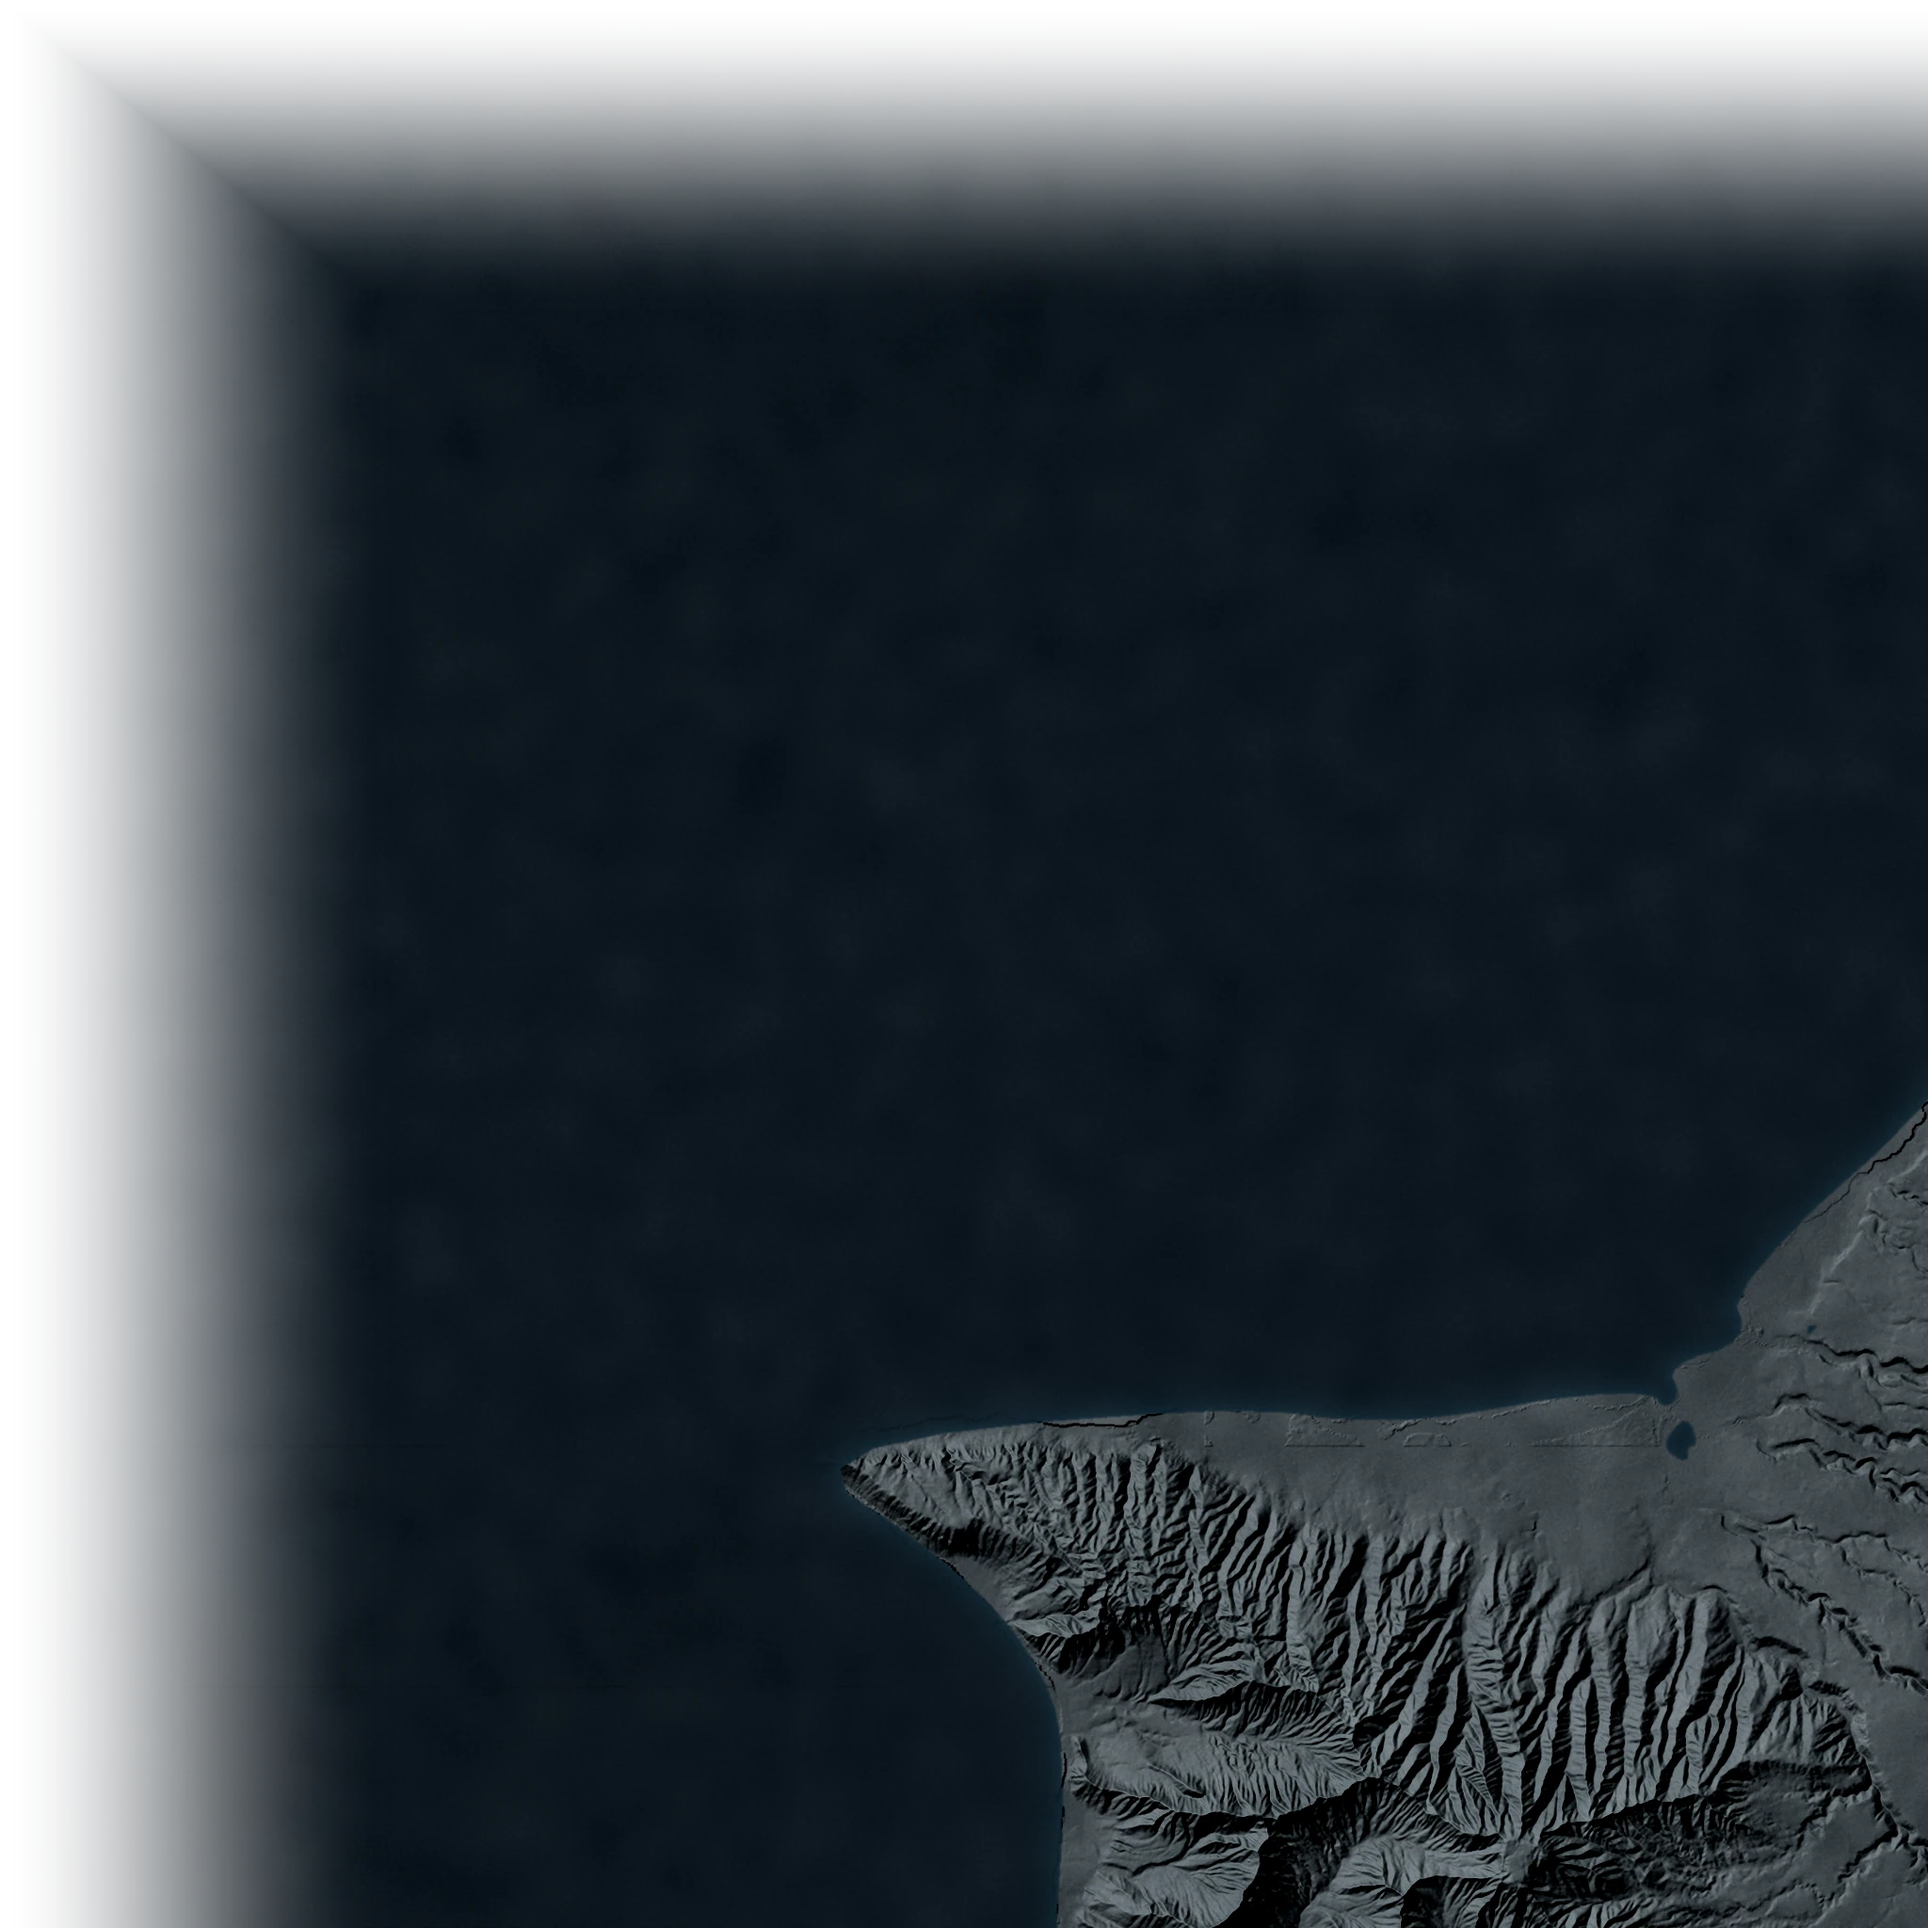
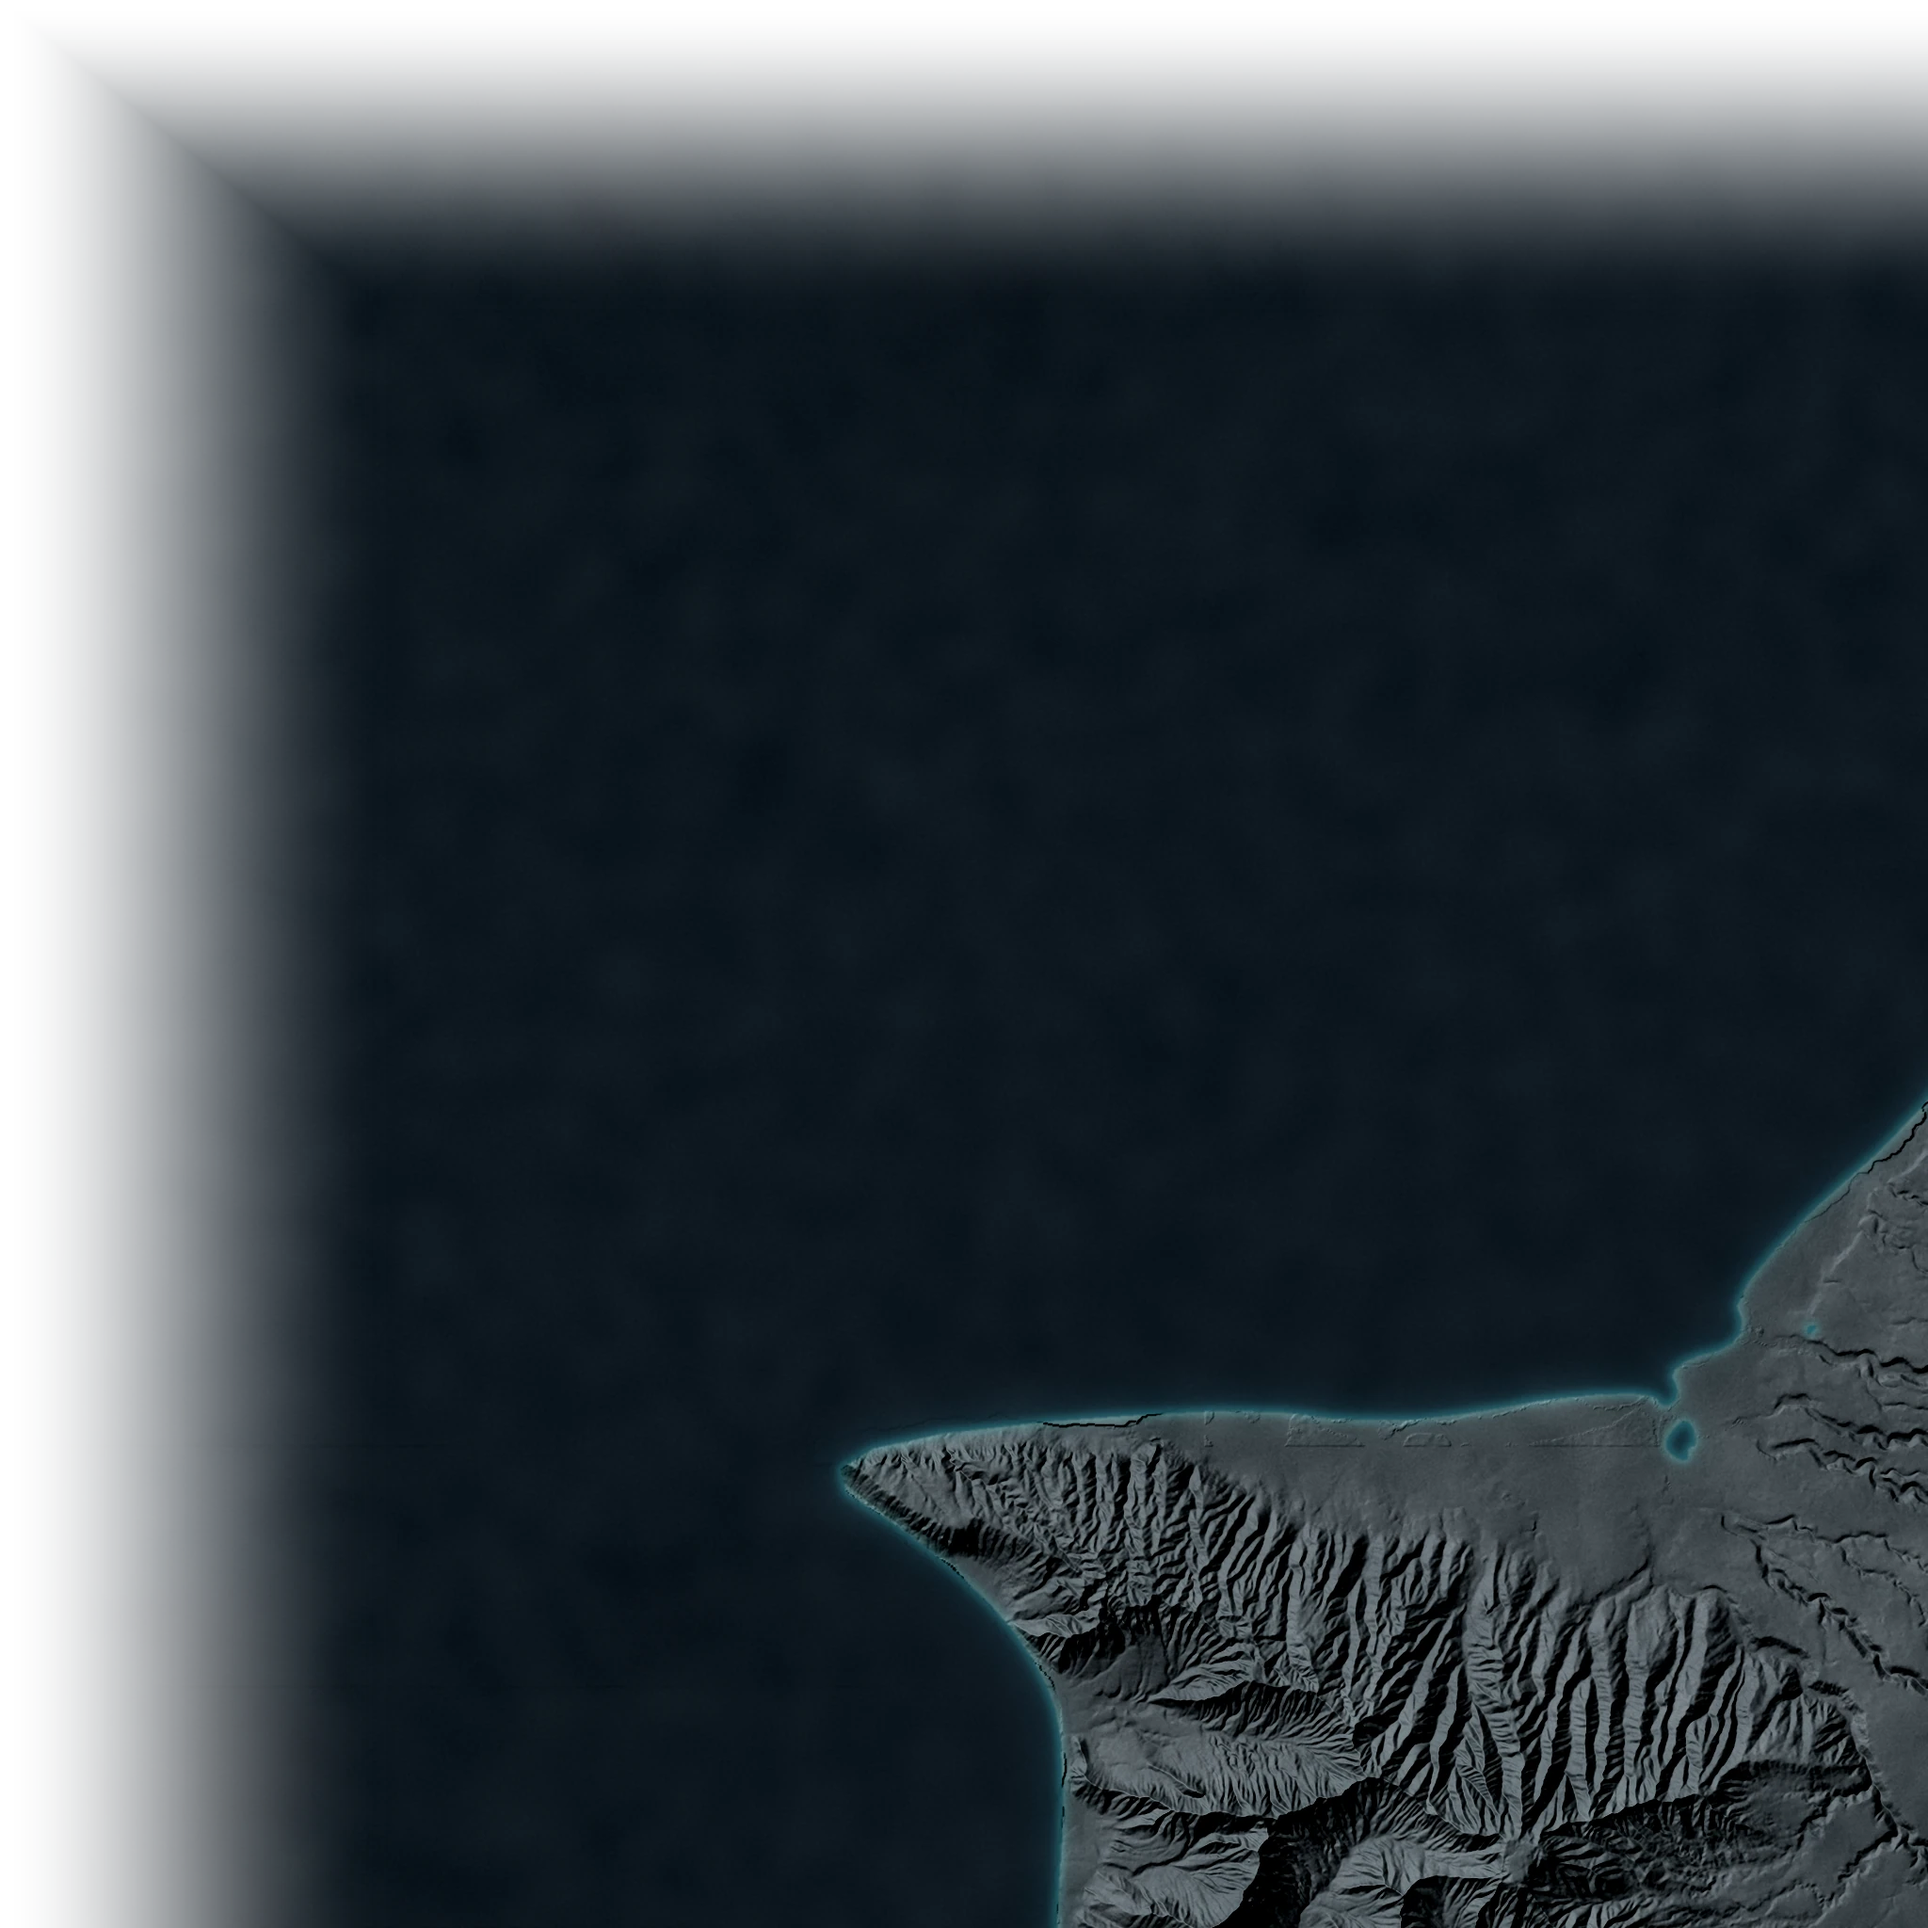
Speed up map rendering ~20x: project coasts per frame, bake coast glow into terrain tiles
Wide translucent SVG strokes inside the 3D-tilted plane cost ~2 min/frame in
software rasterisation; glow is now baked into the textures and only the crisp
1px vector line is drawn.

Claude-Session: https://claude.ai/code/session_01M2573w4XZCHk9cqGbeF5WA

diff --git a/src/map/MapStage.tsx b/src/map/MapStage.tsx
@@ -36,26 +36,55 @@ const LAYERS: {key: RegionKey; vis: (z: number) => number}[] = [
   {key: 'hawaii', vis: (z) => smooth(z, 6.2, 7.2)},
   {key: 'oahu', vis: (z) => smooth(z, 9.0, 10.0)},
 ];
+// Coast rings parsed once; each frame they are projected to plane pixels in JS,
+// culled and decimated. (Drawing huge world-unit paths under a scale transform
+// inside a 3D-tilted plane is ~25x slower in software rasterisation.)
+type Ring = {pts: Float64Array; x0: number; y0: number; x1: number; y1: number};
+const parseRings = (d: string): Ring[] =>
+  d
+    .split('M')
+    .filter(Boolean)
+    .map((r) => {
+      const nums = r.replace('Z', '').split('L').flatMap((p) => p.split(',').map(Number));
+      const pts = Float64Array.from(nums);
+      let x0 = Infinity, y0 = Infinity, x1 = -Infinity, y1 = -Infinity;
+      for (let i = 0; i < pts.length; i += 2) {
+        x0 = Math.min(x0, pts[i]); x1 = Math.max(x1, pts[i]);
+        y0 = Math.min(y0, pts[i + 1]); y1 = Math.max(y1, pts[i + 1]);
+      }
+      return {pts, x0, y0, x1, y1};
+    });
 const COASTS = [
-  {d: coastPacific.d, vis: (z: number) => 1 - smooth(z, 6.4, 7.2)},
-  {d: coastHawaii.d, vis: (z: number) => smooth(z, 6.4, 7.2) * (1 - smooth(z, 9.6, 10.2))},
-  {d: coastOahu.d, vis: (z: number) => smooth(z, 9.6, 10.2)},
+  {rings: parseRings(coastPacific.d), vis: (z: number) => 1 - smooth(z, 6.4, 7.2)},
+  {rings: parseRings(coastHawaii.d), vis: (z: number) => smooth(z, 6.4, 7.2) * (1 - smooth(z, 9.6, 10.2))},
+  {rings: parseRings(coastOahu.d), vis: (z: number) => smooth(z, 9.6, 10.2)},
 ];
 
-const graticule = (() => {
-  const parts: string[] = [];
-  for (let lon = 100; lon <= 240; lon += 5) {
-    const [x, y0] = toWorld([lon, 64]);
-    const [, y1] = toWorld([lon, -4]);
-    parts.push(`M${x},${y0}L${x},${y1}`);
+const coastPath = (rings: Ring[], cx: number, cy: number, s: number) => {
+  const hw = PLANE_W / 2 / s, hh = PLANE_H / 2 / s;
+  const vx0 = cx - hw * 1.1, vx1 = cx + hw * 1.1, vy0 = cy - hh * 1.1, vy1 = cy + hh * 1.1;
+  const out: string[] = [];
+  for (const r of rings) {
+    if (r.x1 < vx0 || r.x0 > vx1 || r.y1 < vy0 || r.y0 > vy1) continue;
+    if ((r.x1 - r.x0) * s < 1.5 && (r.y1 - r.y0) * s < 1.5) continue;
+    const p = r.pts;
+    let lx = -1e9, ly = -1e9;
+    const seg: string[] = [];
+    for (let i = 0; i < p.length; i += 2) {
+      const x = (p[i] - cx) * s + PLANE_W / 2;
+      const y = (p[i + 1] - cy) * s + PLANE_H / 2;
+      if (i > 0 && i < p.length - 2 && Math.abs(x - lx) + Math.abs(y - ly) < 1.6) continue;
+      seg.push(`${x.toFixed(1)},${y.toFixed(1)}`);
+      lx = x; ly = y;
+    }
+    if (seg.length > 2) out.push('M' + seg.join('L') + 'Z');
   }
-  for (let lat = 0; lat <= 60; lat += 5) {
-    const [x0, y] = toWorld([100, lat]);
-    const [x1] = toWorld([240, lat]);
-    parts.push(`M${x0},${y}L${x1},${y}`);
-  }
-  return parts.join('');
-})();
+  return out.join('');
+};
+
+const graticule: [[number, number], [number, number]][] = [];
+for (let lon = 100; lon <= 240; lon += 5) graticule.push([toWorld([lon, 64]), toWorld([lon, -4])]);
+for (let lat = 0; lat <= 60; lat += 5) graticule.push([toWorld([100, lat]), toWorld([240, lat])]);
 
 export const MapStage: React.FC<{cam: Cam; children?: React.ReactNode; overlay?: React.ReactNode}> = ({cam, children, overlay}) => {
   const {width, height} = useVideoConfig();
@@ -64,8 +93,11 @@ export const MapStage: React.FC<{cam: Cam; children?: React.ReactNode; overlay?:
     const projectWorld = (x: number, y: number): [number, number] => [(x - cam.cx) * s + PLANE_W / 2, (y - cam.cy) * s + PLANE_H / 2];
     return {cam, s, projectWorld, project: (ll) => projectWorld(...toWorld(ll))};
   }, [cam, s]);
-  const tx = -cam.cx * s + PLANE_W / 2;
-  const ty = -cam.cy * s + PLANE_H / 2;
+  const graticuleD = graticule.map(([a, b]) => {
+    const [x0, y0] = ctx.projectWorld(...a);
+    const [x1, y1] = ctx.projectWorld(...b);
+    return `M${x0.toFixed(1)},${y0.toFixed(1)}L${x1.toFixed(1)},${y1.toFixed(1)}`;
+  }).join('');
 
   return (
     <AbsoluteFill style={{background: C.bg, overflow: 'hidden', perspective: 1500, perspectiveOrigin: '50% 30%'}}>
@@ -100,20 +132,17 @@ export const MapStage: React.FC<{cam: Cam; children?: React.ReactNode; overlay?:
           });
         })}
         <svg width={PLANE_W} height={PLANE_H} style={{position: 'absolute', inset: 0, overflow: 'visible'}}>
-          <g transform={`translate(${tx},${ty}) scale(${s})`}>
-            <path d={graticule} fill="none" stroke="rgba(160,210,220,0.07)" strokeWidth={1 / s} />
-            {COASTS.map(({d, vis}, i) => {
-              const o = vis(cam.zoom);
-              if (o <= 0.001) return null;
-              return (
-                <g key={i} opacity={o} fill="none" strokeLinejoin="round">
-                  <path d={d} stroke={C.coastGlow} strokeWidth={7 / s} opacity={0.35} />
-                  <path d={d} stroke={C.coastGlow} strokeWidth={3.2 / s} />
-                  <path d={d} stroke={C.coast} strokeWidth={1.25 / s} />
-                </g>
-              );
-            })}
-          </g>
+          <path d={graticuleD} fill="none" stroke="rgba(160,210,220,0.07)" strokeWidth={1} />
+          {COASTS.map(({rings, vis}, i) => {
+            const o = vis(cam.zoom);
+            if (o <= 0.001) return null;
+            const d = coastPath(rings, cam.cx, cam.cy, s);
+            return (
+              <g key={i} opacity={o < 0.999 ? o : undefined} fill="none" strokeLinejoin="round">
+                <path d={d} stroke={C.coast} strokeWidth={1.25} />
+              </g>
+            );
+          })}
         </svg>
         <MapCtx.Provider value={ctx}>{children}</MapCtx.Provider>
       </div>

diff --git a/tools/geo/build_terrain.py b/tools/geo/build_terrain.py
@@ -199,6 +199,12 @@ def build(name):
 
     m = ndimage.gaussian_filter(mask, 0.8)[..., None]
     rgb = land_rgb * m + sea_rgb * (1 - m)
+    # coastline glow baked into the texture (soft, so it survives LOD scaling;
+    # the crisp 1px line itself is drawn as a vector in the engine)
+    edge = np.abs(m[..., 0] - ndimage.uniform_filter(m[..., 0], 3)) * 4
+    sig = {"pacific": 2.2, "hawaii": 3.0, "oahu": 5.0}[name]
+    glow = ndimage.gaussian_filter(edge, sig) * 3 + ndimage.gaussian_filter(edge, sig * 4) * 2.2
+    rgb = rgb + np.clip(glow, 0, 1.4)[..., None] * np.array([40, 120, 118], np.float32)
     rgb8 = np.clip(rgb, 0, 255).astype(np.uint8)
     if name == "pacific":
         alpha = np.full((H, Wp), 255, np.uint8)
